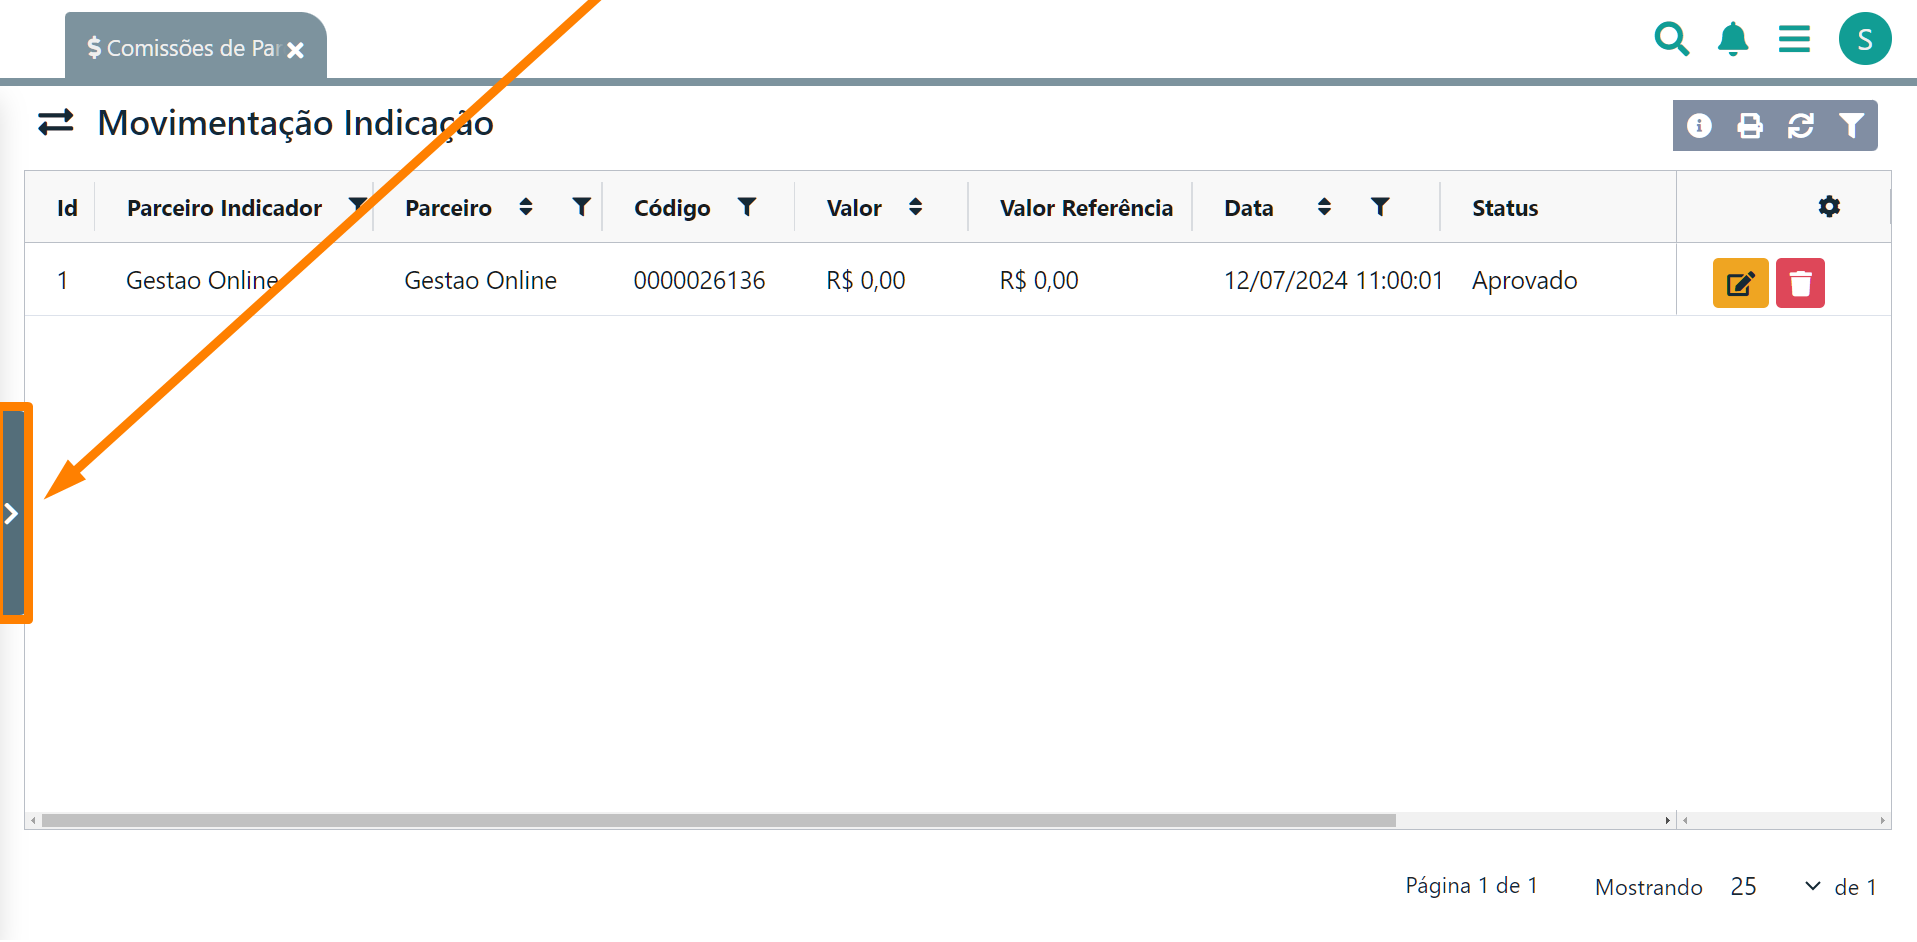
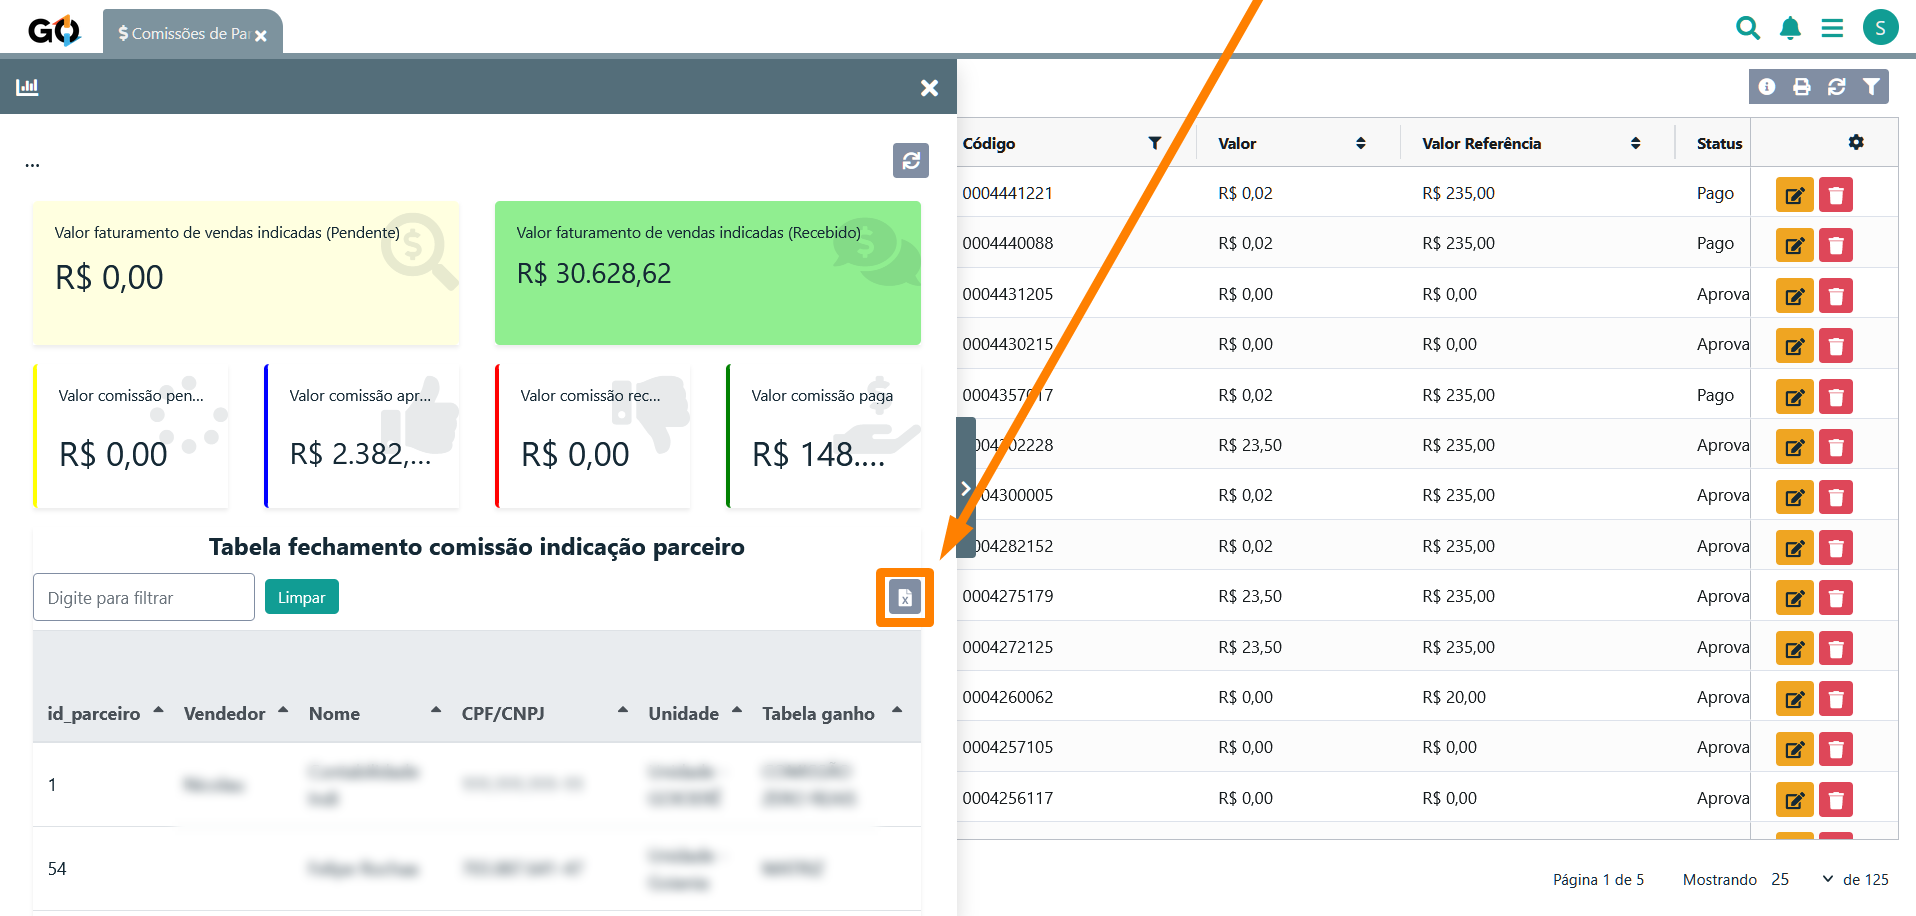
Update manual de uso Tela Indicadores e Afiliados

diff --git a/erp-v2/funcionalidades/indicadores_afiliados/comissoes_parceiros.md b/erp-v2/funcionalidades/indicadores_afiliados/comissoes_parceiros.md
@@ -4,7 +4,7 @@
 <img src="/erp-v2/assets/marketplace/coroa_premium.png" alt="" data-size="line"> Esta tela é contratada a parte pelo [Marketplace](/erp-v2/marketplace/inicio.md) do Gestão Online, entre em contato com o nosso time [Comercial](https://api.whatsapp.com/send?phone=556237735650&text=Ol%C3%A1%20gostaria%20de%20mais%20informa%C3%A7%C3%B5es%20sobre%20o%20marketplace%20do%20Gest%C3%A3o.Online) para maiores informações.
 {% endhint %}
 
-Nesta tela você encontra todas as movimentações que estão cadastradas na plataforma da **Gestão Online**. E caso queira editar ou excluir um tipo existente, precisa somente seguir este manual.
+Nesta tela você encontra todas as movimentações que possuem parceiro indicador e possuem [Tabela de Indicação](/erp-v2/funcionalidades/indicadores_afiliados/tabelas_indicacao.md) configurada no **Gestão Online**. Serão exibidas informações como código da venda, cliente, parceiro indicador, valor de referência da venda e o valor a ser pago de comissão ao indicador. Desta forma você tem um controle direto no sistema dos pagamentos de indicadores.
 
 ![](/erp-v2/assets/funcionalidades/indicadores_afiliados/aba_comissoes.gif)
 
@@ -19,17 +19,13 @@ Nesta tela tem um menu ao lado direito com as seguintes funções:
 **Filtros:** Caso queira mais informações sobre como utilizar os filtros de busca [**`clique aqui`**](/erp-v2/primeiro_acesso/filtros.md).
 {% endhint %}
 
-{% hint style="warning" %}
-**Mouse:** Caso queira informações sobre como utilizar as funções do botão direito do mouse, [**`clique aqui`**](https://docs.gestao.plus/erp-v2/primeiro_acesso/atalhos_internos#menu-botao-direito-do-mouse).
-{% endhint %}
-
 ![](/erp-v2/assets/funcionalidades/indicadores_afiliados/aba_comissoes_menu.png)
+
+Nesta tela não temos a opção de adicionar um novo item, pois todas as comissões são geradas automaticamente mediante uma venda/compra criada na tela de vendas com um indicador vinculado a ela e com uma tabela de comissão configurada.
 
 ## Botão direito do mouse
 
-Nesta tela não temos a opção de adicionar um novo item, pois todas as comissões são geradas automaticamente mediante uma venda/compra.
-
-Então, quando você tem uma movimentação sendo exibida, você pode clicar com o botão direito do mouse sobre este item e terá duas opções, sendo elas para **recusar** a comissão gerada ou **marcar como pago**.
+Nas movimentações exibidas na tela, você pode clicar com o botão direito do mouse sobre uma e terá duas opções específicas para uso. Sendo a primeira para **recusar** o pagamento da comissão deste indicador, e a segunda para **marcar como pago** a comissão do indicador. Trazendo assim mais comodidade no seu controle de pagamentos e reduzindo o uso de várias planilhas de controle.
 
 Em nosso exemplo, iremos recusar o pagamento da comissão para vermos a mensagem que será exibida. Observe abaixo, o status da comissão será modificado assim que definirmos.
 
@@ -38,8 +34,10 @@ Em nosso exemplo, iremos recusar o pagamento da comissão para vermos a mensagem
 
 ## Dashboard lateral
 
-Ainda nesta tela, você pode ter observado que no lado esquerdo tem um ícone de uma seta se movendo. Ali fica o dashboard de informações da tela.
+Ainda nesta tela, você pode ter observado que no lado esquerdo tem um ícone de uma seta se movendo. Ali fica o dashboard de informações da tela. Nela você consegue de forme visual, te acesso a faturamento de vendas indicadas (Pendentes ou Recebidas), consegue também acompanhar valores das comissões aprovadas e recusadas.
 
-![](/erp-v2/assets/funcionalidades/indicadores_afiliados/aba_comissoes_dashboard_lateral.png)
+E na parte mais abaixo, você tem uma pequena tabela de fechamento comissão indicação parceiro, caso deseje imprimir o relatório de maneira mais formal e guardar os registro em algum arquivo, ou para outra finalidade.
 
-Para as informações completas sobre uso desse dashboard, você pode acessar nosso manual de explicação sobre ele [`clicando aqui`](/erp-v2/primeiro_acesso/relatorios_dashboard_grid.md).
+![](/erp-v2/assets/funcionalidades/indicadores_afiliados/aba_comissoes_dashboard_lateral.gif)
+
+Para as informações completas sobre os dashboards no Gestão Online, você pode acessar nosso manual de explicação sobre ele [`clicando aqui`](/erp-v2/primeiro_acesso/relatorios_dashboard_grid.md).
